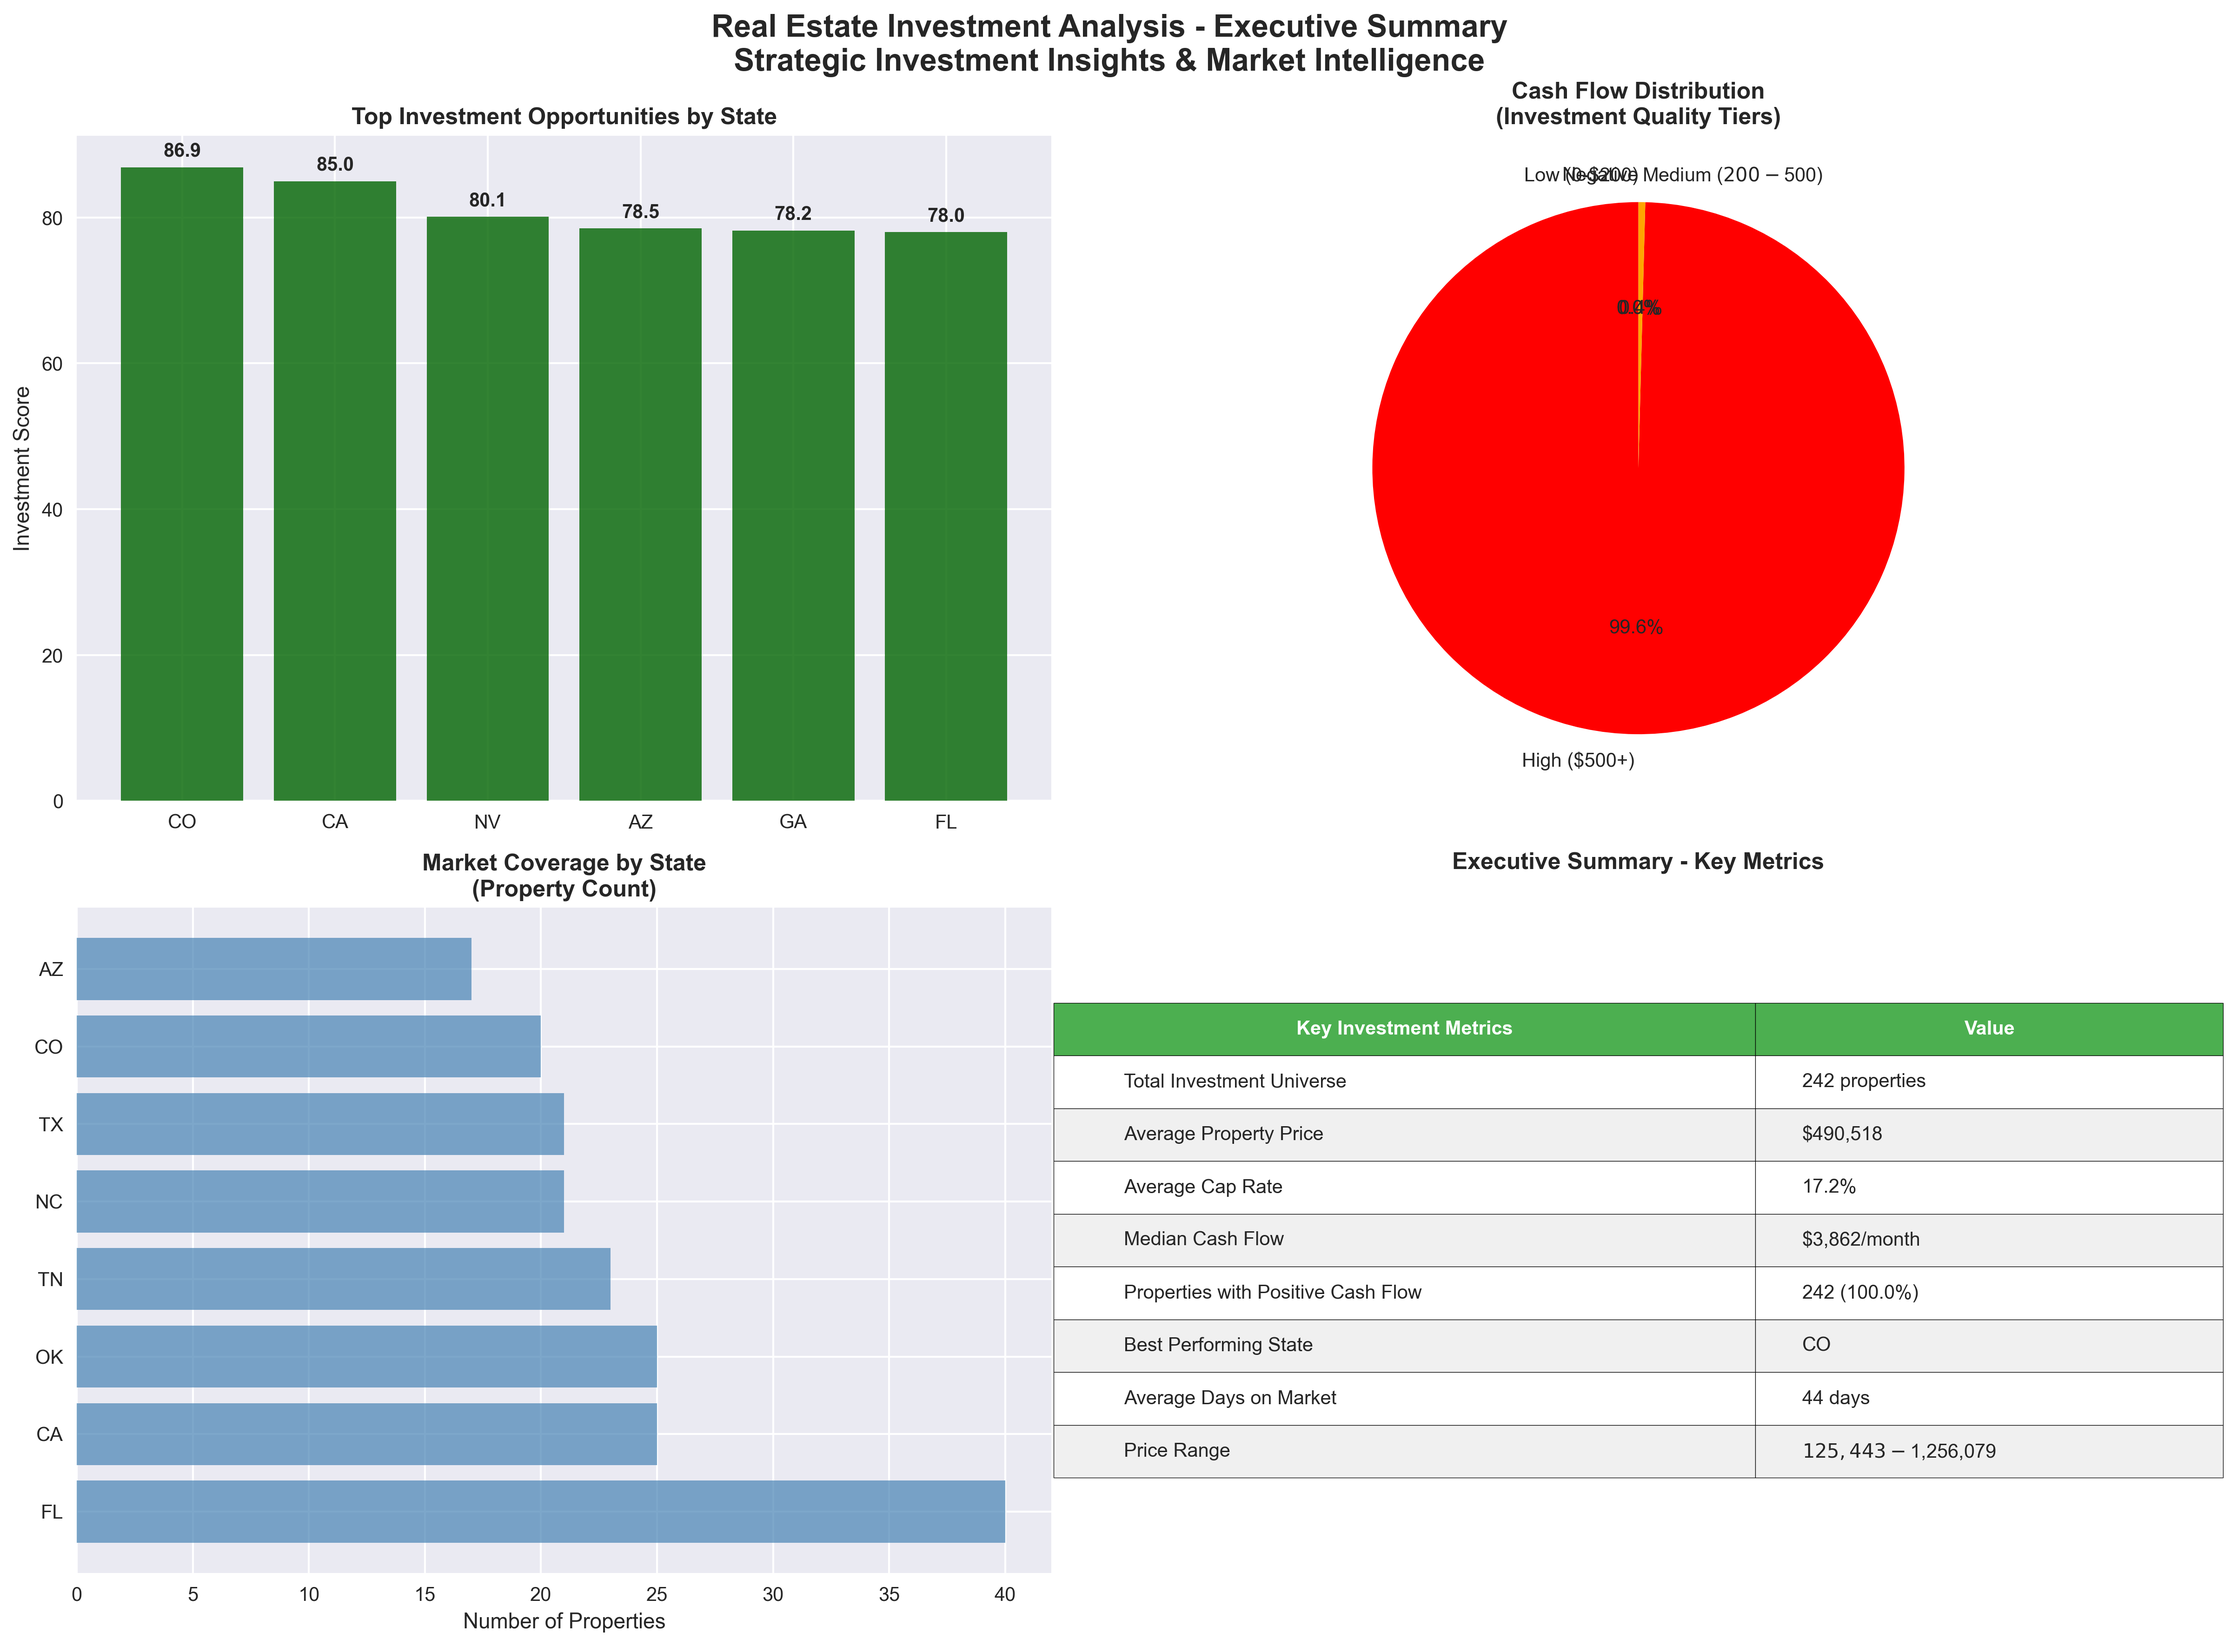
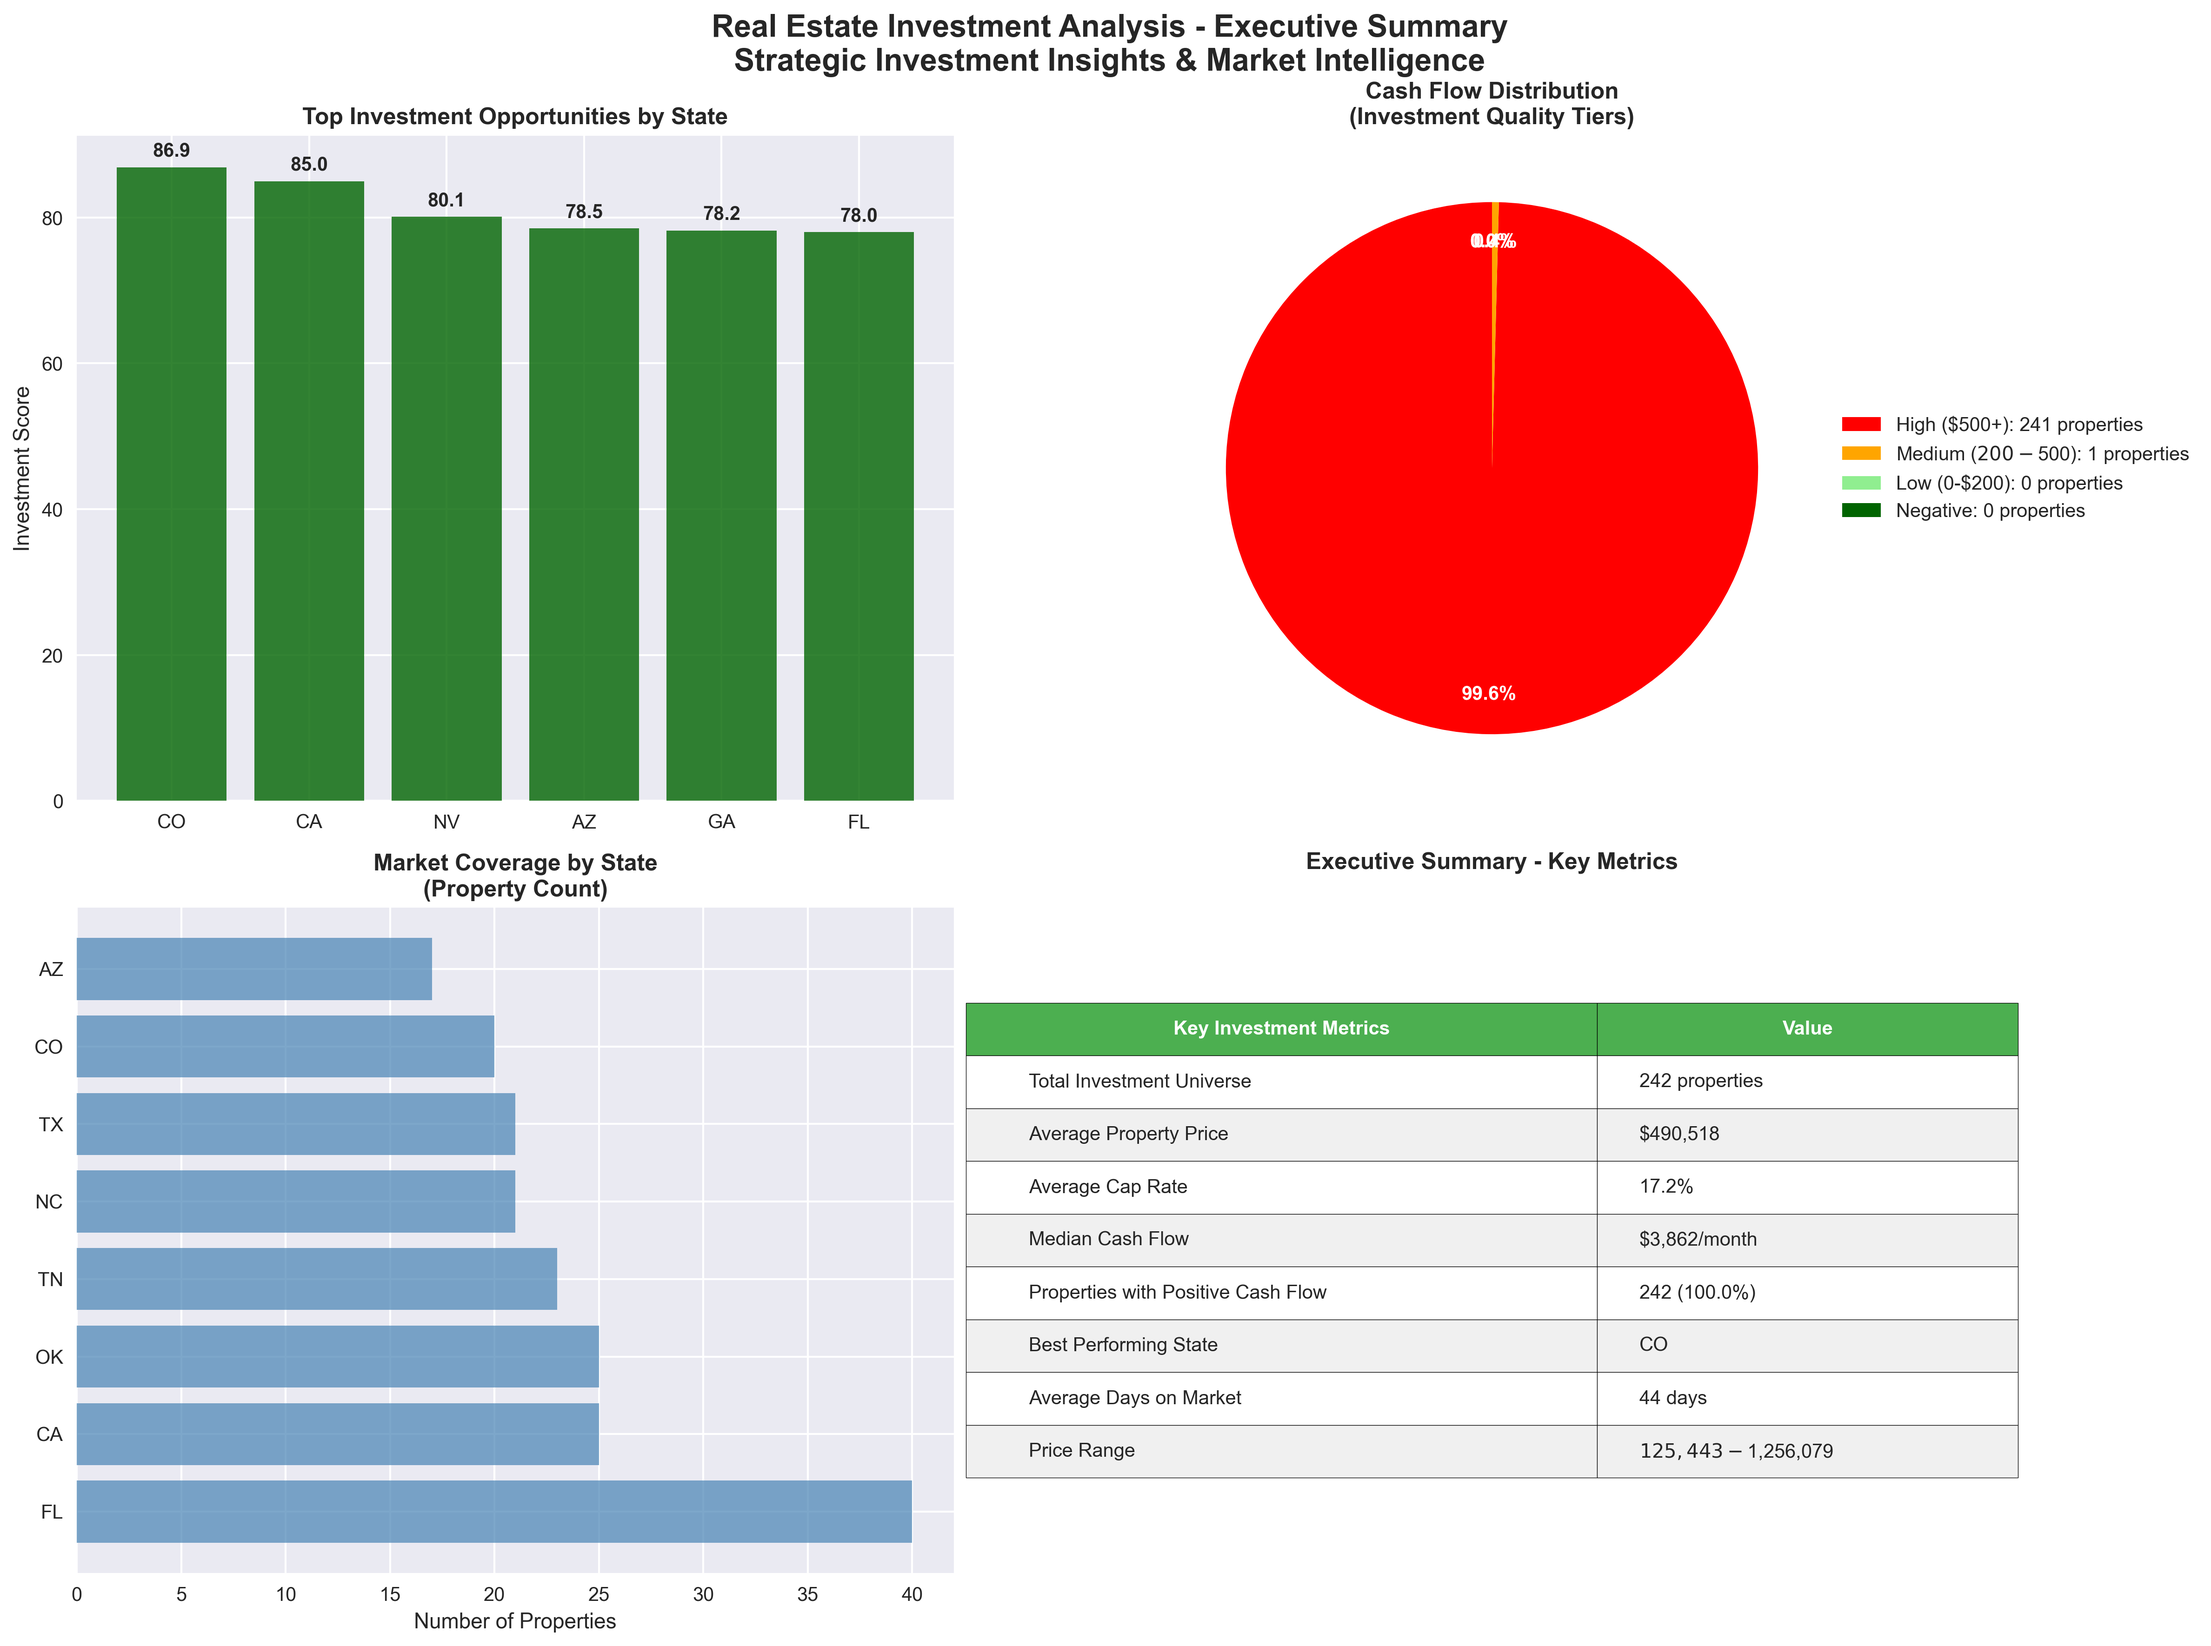
Fix pie chart label overlapping in executive summary
- Removed overlapping labels from pie chart
- Added custom legend with proper spacing and positioning
- Improved text formatting with bold white percentages
- Enhanced readability of cash flow distribution chart
- Legend now shows category names with property counts

🤖 Generated with [Claude Code](https://claude.ai/code)

diff --git a/scripts/create_real_estate_dashboard.py b/scripts/create_real_estate_dashboard.py
@@ -398,9 +398,20 @@ class RealEstateAnalyzer:
         tier_counts = cash_flow_tiers.value_counts()
         
         colors = ['red', 'orange', 'lightgreen', 'darkgreen']
-        wedges, texts, autotexts = ax2.pie(tier_counts.values, labels=tier_counts.index, 
-                                          colors=colors, autopct='%1.1f%%', startangle=90)
+        wedges, texts, autotexts = ax2.pie(tier_counts.values, labels=None, 
+                                          colors=colors, autopct='%1.1f%%', startangle=90,
+                                          pctdistance=0.85)
+        
+        # Create custom legend with proper spacing
+        legend_labels = [f'{label}: {count} properties' for label, count in tier_counts.items()]
+        ax2.legend(wedges, legend_labels, loc='center left', bbox_to_anchor=(1, 0.5))
         ax2.set_title('Cash Flow Distribution\n(Investment Quality Tiers)', fontweight='bold')
+        
+        # Improve text properties
+        for autotext in autotexts:
+            autotext.set_color('white')
+            autotext.set_fontweight('bold')
+            autotext.set_fontsize(10)
         
         # 3. Geographic Diversification
         state_counts = df['state'].value_counts().head(8)
